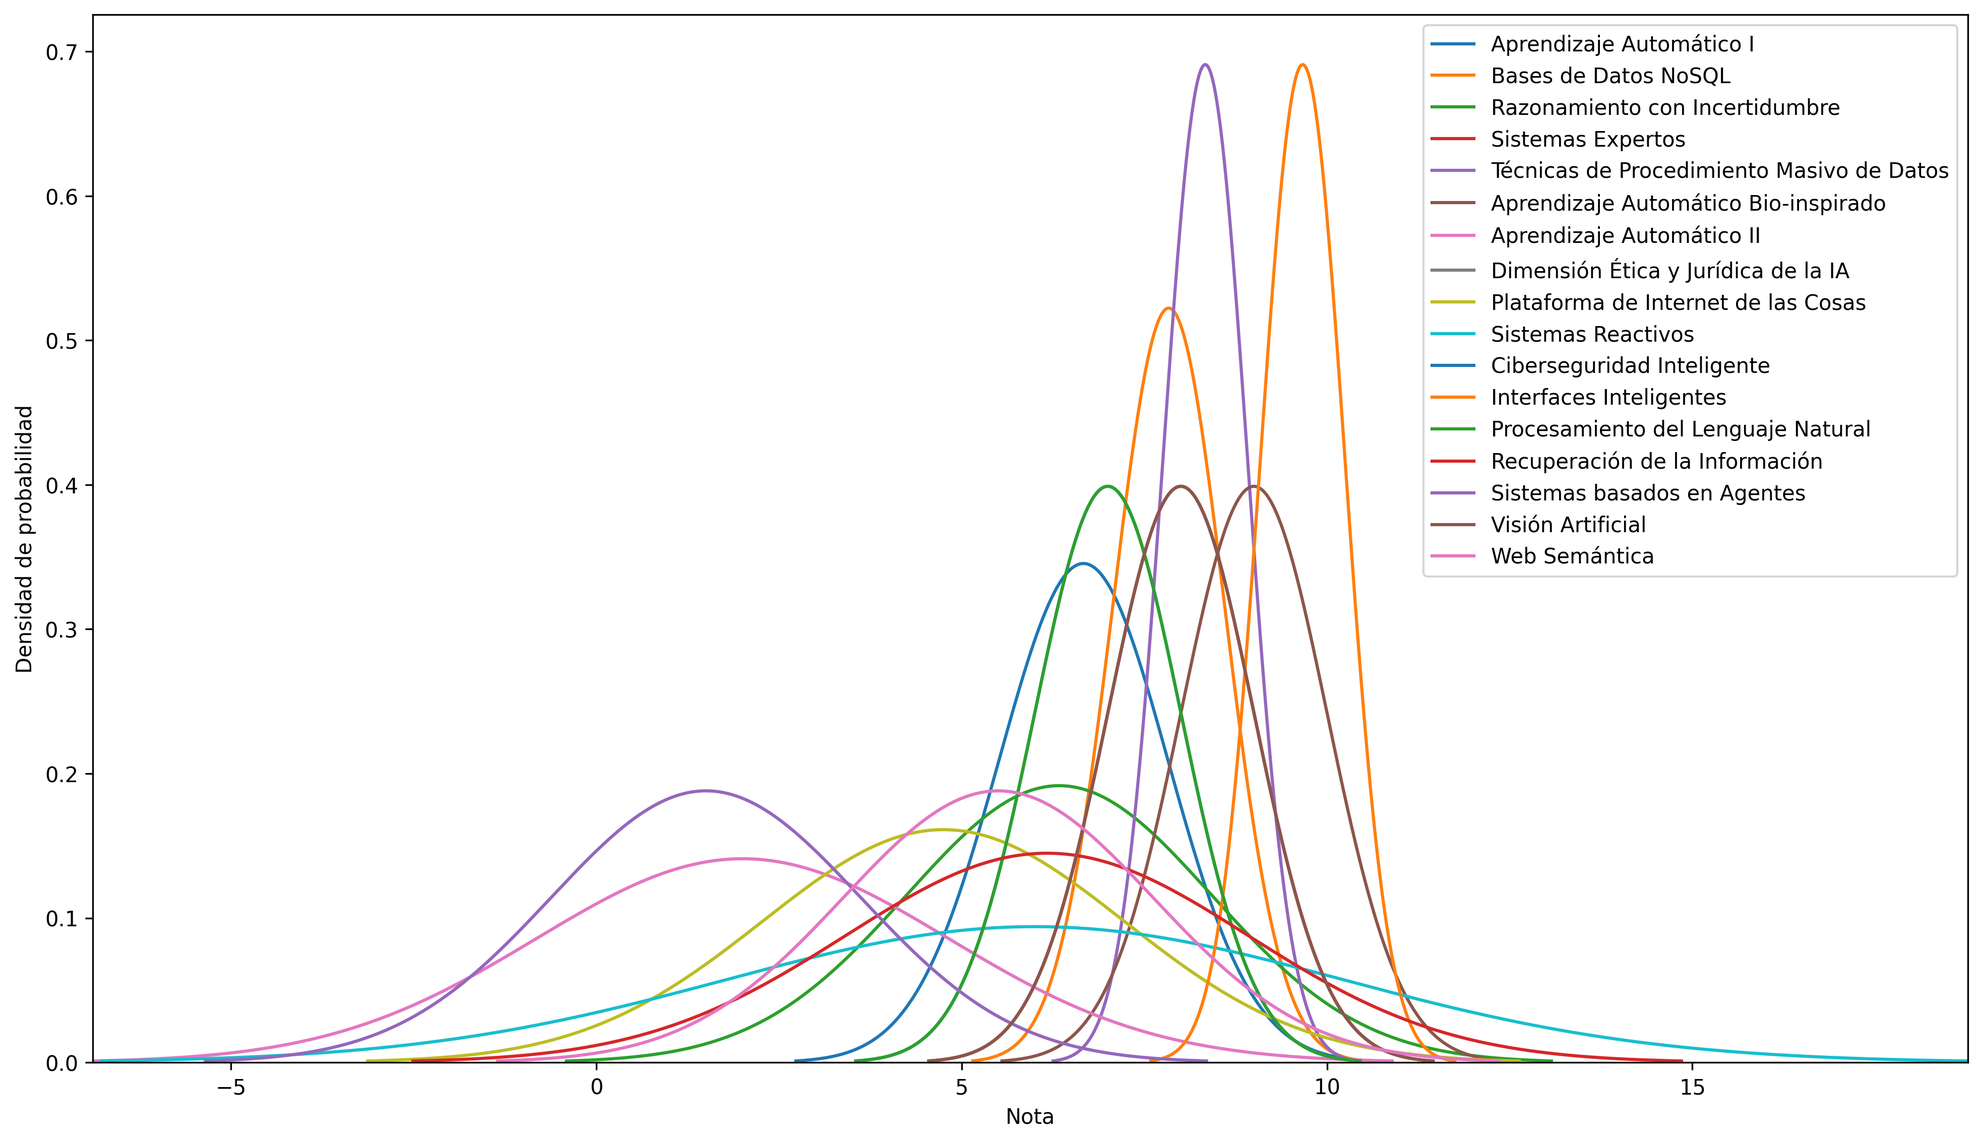
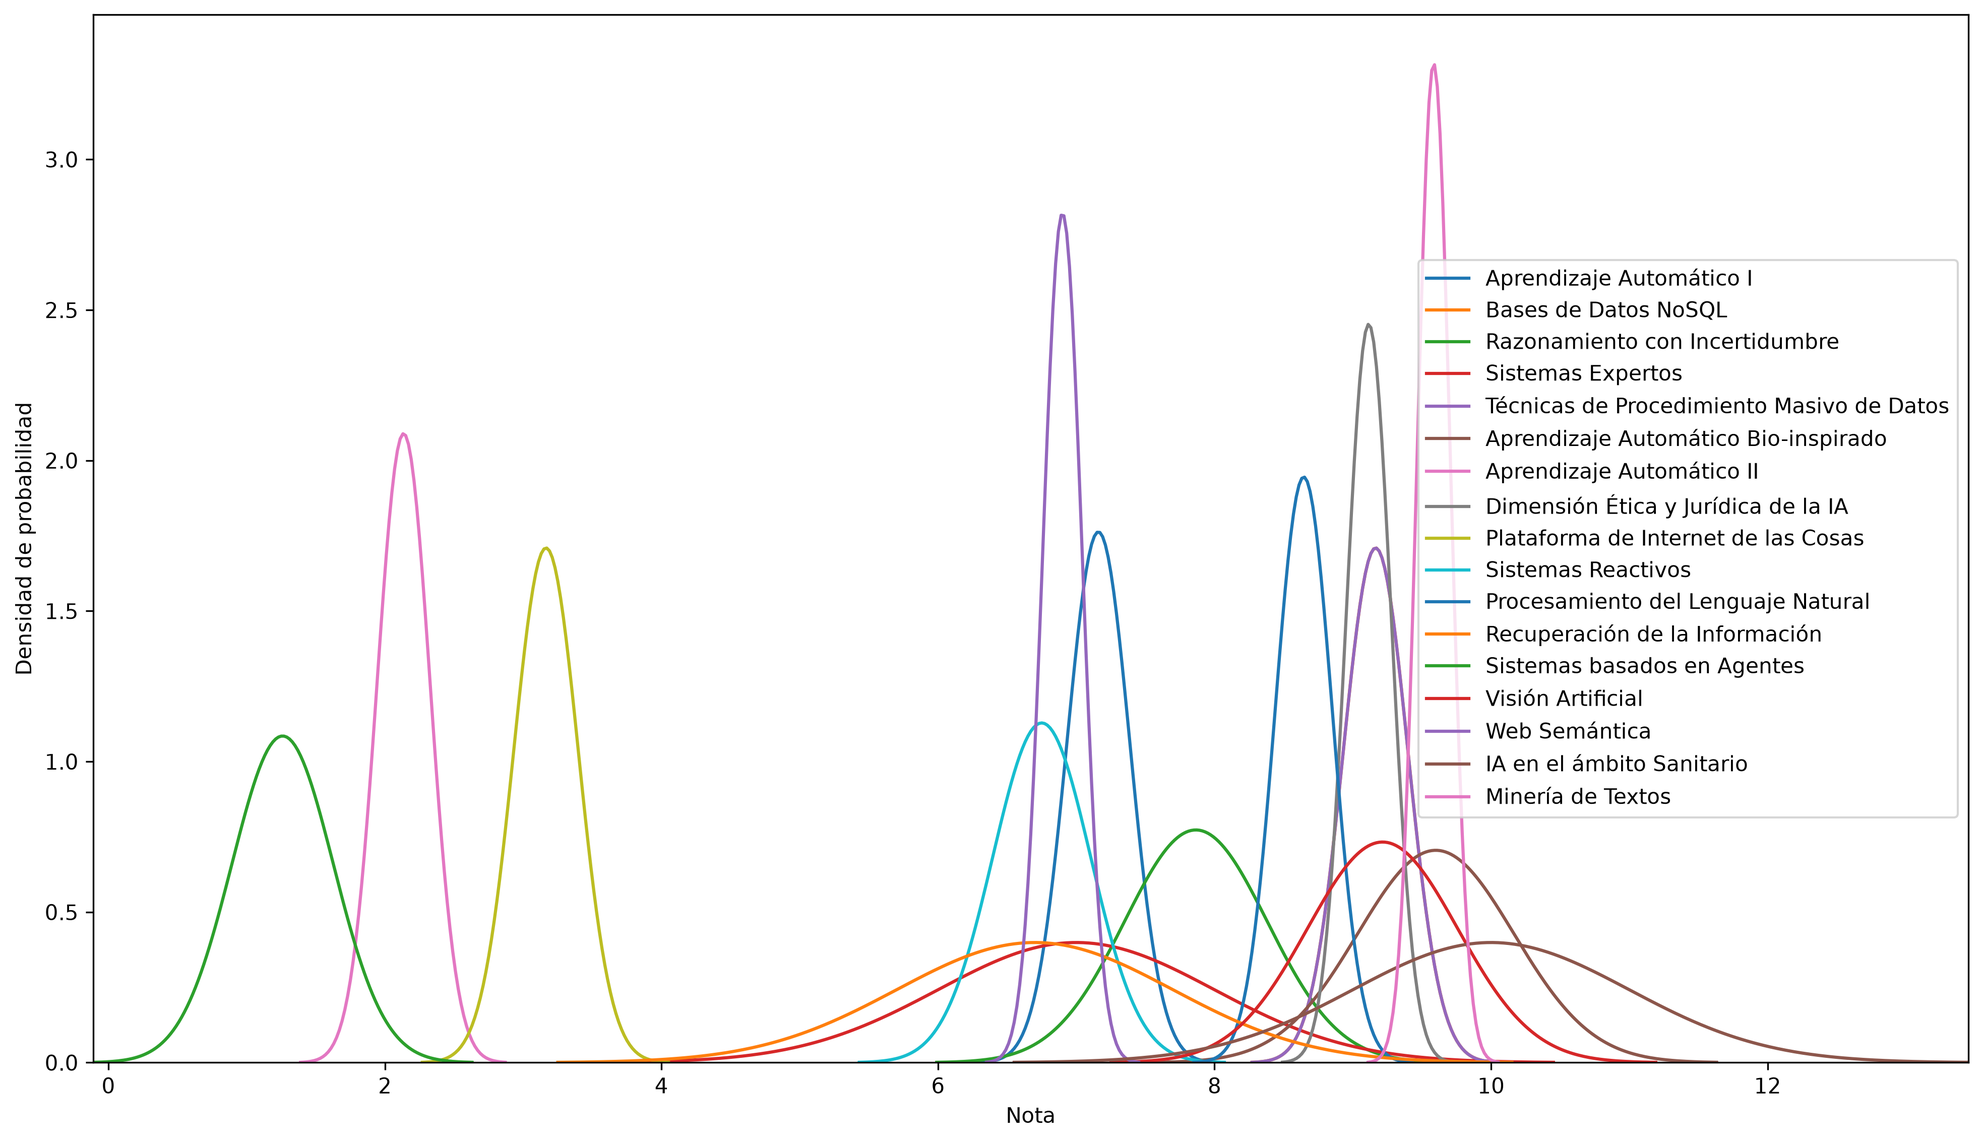
Executed main.py [GitHub Action]

diff --git a/docs/README2026.md b/docs/README2026.md
@@ -6,25 +6,29 @@ Este es un repositorio que calcula distintos métodos de votación y métricas p
 
 Estas son distintas métricas para todas las asignaturas, ordenadas por su media.
 
-| <img width="1000"><br><p align="center">Asignatura | <img width="1000"><br><p align="center">Media | <img width="1000"><br><p align="center">Desviación típica | <img width="1000"><br><p align="center">Mediana | <img width="1000"><br><p align="center">Moda | <img width="1000"><br><p align="center">Máximo | <img width="1000"><br><p align="center">Mínimo | <img width="1000"><br><p align="center">Número de alumnos |
-| :------------------------------------------------- | :-------------------------------------------: | :-------------------------------------------------------: | :---------------------------------------------: | :------------------------------------------: | :--------------------------------------------: | :--------------------------------------------: | --------------------------------------------------------: |
-| Interfaces Inteligentes                            |                     9.67                      |                           0.58                            |                       10                        |                      10                      |                       10                       |                       9                        |                                                         3 |
-| Aprendizaje Automático Bio-inspirado               |                       9                       |                            nan                            |                        9                        |                      9                       |                       9                        |                       9                        |                                                         1 |
-| Técnicas de Procedimiento Masivo de Datos          |                     8.33                      |                           0.58                            |                        8                        |                      8                       |                       9                        |                       8                        |                                                         3 |
-| Visión Artificial                                  |                       8                       |                            nan                            |                        8                        |                      8                       |                       8                        |                       8                        |                                                         1 |
-| Dimensión Ética y Jurídica de la IA                |                       8                       |                             0                             |                        8                        |                      8                       |                       8                        |                       8                        |                                                         2 |
-| Sistemas Expertos                                  |                       8                       |                             0                             |                        8                        |                      8                       |                       8                        |                       8                        |                                                         3 |
-| Bases de Datos NoSQL                               |                     7.83                      |                           0.76                            |                        8                        |                      7                       |                      8.5                       |                       7                        |                                                         3 |
-| Ciberseguridad Inteligente                         |                       7                       |                             0                             |                        7                        |                      7                       |                       7                        |                       7                        |                                                         2 |
-| Procesamiento del Lenguaje Natural                 |                       7                       |                             1                             |                        7                        |                      6                       |                       8                        |                       6                        |                                                         3 |
-| Aprendizaje Automático I                           |                     6.67                      |                           1.15                            |                        6                        |                      6                       |                       8                        |                       6                        |                                                         3 |
-| Razonamiento con Incertidumbre                     |                     6.33                      |                           2.08                            |                        7                        |                      4                       |                       8                        |                       4                        |                                                         3 |
-| Recuperación de la Información                     |                     6.17                      |                           2.75                            |                       7.5                       |                      3                       |                       8                        |                       3                        |                                                         3 |
-| Sistemas Reactivos                                 |                       6                       |                           4.24                            |                        6                        |                      3                       |                       9                        |                       3                        |                                                         2 |
-| Web Semántica                                      |                      5.5                      |                           2.12                            |                       5.5                       |                      4                       |                       7                        |                       4                        |                                                         2 |
-| Plataforma de Internet de las Cosas                |                     4.75                      |                           2.47                            |                      4.75                       |                      3                       |                      6.5                       |                       3                        |                                                         2 |
-| Aprendizaje Automático II                          |                       2                       |                           2.83                            |                        2                        |                      0                       |                       4                        |                       0                        |                                                         2 |
-| Sistemas basados en Agentes                        |                      1.5                      |                           2.12                            |                       1.5                       |                      0                       |                       3                        |                       0                        |                                                         2 |
+| <img width="1000"><br><p align="center">Asignatura  | <img width="1000"><br><p align="center">Media  | <img width="1000"><br><p align="center">Desviación típica  | <img width="1000"><br><p align="center">Mediana  | <img width="1000"><br><p align="center">Moda  | <img width="1000"><br><p align="center">Máximo  | <img width="1000"><br><p align="center">Mínimo  | <img width="1000"><br><p align="center">Número de alumnos |
+|:--|:--:|:--:|:--:|:--:|:--:|:--:|--:|
+| IA en el ámbito Sanitario  | 10  | 0  | 10  | 10  | 10  | 10  | 2 |
+| Aprendizaje Automático Bio-inspirado  | 9.6  | 0.57  | 9.6  | 9.2  | 10  | 9.2  | 2 |
+| Minería de Textos  | 9.59  | 0.12  | 9.59  | 9.5  | 9.67  | 9.5  | 2 |
+| Visión Artificial  | 9.22  | 0.54  | 9.22  | 8.83  | 9.6  | 8.83  | 2 |
+| Técnicas de Procedimiento Masivo de Datos  | 9.16  | 0.23  | 9.16  | 9  | 9.33  | 9  | 2 |
+| Bases de Datos NoSQL  | 9.16  | 0.23  | 9.16  | 9  | 9.33  | 9  | 2 |
+| Dimensión Ética y Jurídica de la IA  | 9.12  | 0.16  | 9.12  | 9  | 9.23  | 9  | 2 |
+| Procesamiento del Lenguaje Natural  | 8.64  | 0.21  | 8.64  | 8.5  | 8.79  | 8.5  | 2 |
+| Razonamiento con Incertidumbre  | 7.86  | 0.52  | 7.86  | 7.5  | 8.23  | 7.5  | 2 |
+| Aprendizaje Automático I  | 7.16  | 0.23  | 7.16  | 7  | 7.32  | 7  | 2 |
+| Sistemas Expertos  | 7  | 0  | 7  | 7  | 7  | 7  | 2 |
+| Web Semántica  | 6.9  | 0.14  | 6.9  | 6.8  | 7  | 6.8  | 2 |
+| Sistemas Reactivos  | 6.75  | 0.35  | 6.75  | 6.5  | 7  | 6.5  | 2 |
+| Recuperación de la Información  | 6.7  | 0  | 6.7  | 6.7  | 6.7  | 6.7  | 2 |
+| Plataforma de Internet de las Cosas  | 3.16  | 0.23  | 3.16  | 3  | 3.33  | 3  | 2 |
+| Aprendizaje Automático II  | 2.13  | 0.19  | 2.13  | 2  | 2.27  | 2  | 2 |
+| Sistemas basados en Agentes  | 1.26  | 0.37  | 1.26  | 1  | 1.52  | 1  | 2 |
+| Ciberseguridad Inteligente  | nan  | nan  | nan  | nan  | nan  | nan  | 0 |
+| Interfaces Inteligentes  | nan  | nan  | nan  | nan  | nan  | nan  | 0 |
+| IA en el ámbito Empresarial y Administrativo  | nan  | nan  | nan  | nan  | nan  | nan  | 0 |
+| Robótica basada en el Comportamiento  | nan  | nan  | nan  | nan  | nan  | nan  | 0 |
 
 ## Distribuciones de probabilidad
 
@@ -43,21 +47,25 @@ Estas son las distribuciones normales usando la media y desviación típica de c
 Para el método Schulze se necesita un ranking de cada votante para todas las opciones. Como en este caso tenemos una nota numérica, se pone que un votante prefiere una asignatura sobre otra si le ha dado una nota mayor. Esto se divide por el número de alumnos que han votado a las dos asignaturas para normalizar.
 
 | <img width="1000"><br><p align="center">Asignatura |
-| :------------------------------------------------: |
-|              Interfaces Inteligentes               |
-|        Aprendizaje Automático Bio-inspirado        |
-|                 Visión Artificial                  |
-|     Técnicas de Procedimiento Masivo de Datos      |
-|        Dimensión Ética y Jurídica de la IA         |
-|                 Sistemas Expertos                  |
-|                Bases de Datos NoSQL                |
-|             Ciberseguridad Inteligente             |
-|         Procesamiento del Lenguaje Natural         |
-|              Aprendizaje Automático I              |
-|           Razonamiento con Incertidumbre           |
-|           Recuperación de la Información           |
-|                 Sistemas Reactivos                 |
-|                   Web Semántica                    |
-|        Plataforma de Internet de las Cosas         |
-|             Aprendizaje Automático II              |
-|            Sistemas basados en Agentes             |
+|:--:|
+| IA en el ámbito Sanitario |
+| Aprendizaje Automático Bio-inspirado |
+| Minería de Textos |
+| Visión Artificial |
+| Técnicas de Procedimiento Masivo de Datos |
+| Bases de Datos NoSQL |
+| Dimensión Ética y Jurídica de la IA |
+| Procesamiento del Lenguaje Natural |
+| Razonamiento con Incertidumbre |
+| Aprendizaje Automático I |
+| Sistemas Expertos |
+| Web Semántica |
+| Sistemas Reactivos |
+| Recuperación de la Información |
+| Plataforma de Internet de las Cosas |
+| Aprendizaje Automático II |
+| Sistemas basados en Agentes |
+| Ciberseguridad Inteligente |
+| IA en el ámbito Empresarial y Administrativo |
+| Interfaces Inteligentes |
+| Robótica basada en el Comportamiento |

diff --git a/README.md b/README.md
@@ -9,22 +9,26 @@ Estas son distintas métricas para todas las asignaturas, ordenadas por su media
 | <img width="1000"><br><p align="center">Asignatura  | <img width="1000"><br><p align="center">Media  | <img width="1000"><br><p align="center">Desviación típica  | <img width="1000"><br><p align="center">Mediana  | <img width="1000"><br><p align="center">Moda  | <img width="1000"><br><p align="center">Máximo  | <img width="1000"><br><p align="center">Mínimo  | <img width="1000"><br><p align="center">Número de alumnos |
 |:--|:--:|:--:|:--:|:--:|:--:|:--:|--:|
 | Interfaces Inteligentes  | 9.67  | 0.58  | 10  | 10  | 10  | 9  | 3 |
-| Visión Artificial  | 8.27  | 0.92  | 8  | 8  | 9.9  | 7  | 7 |
-| Técnicas de Procedimiento Masivo de Datos  | 8.16  | 0.72  | 8  | 8  | 10  | 7  | 16 |
-| Bases de Datos NoSQL  | 7.99  | 0.92  | 8  | 8  | 10  | 6  | 17 |
-| Aprendizaje Automático Bio-inspirado  | 7.91  | 2  | 9  | 9  | 10  | 4  | 15 |
-| Dimensión Ética y Jurídica de la IA  | 7.81  | 1.26  | 8  | 8  | 10  | 5  | 15 |
+| Minería de Textos  | 9.29  | 0.66  | 9.5  | 8.3  | 10  | 8.3  | 5 |
+| Robótica basada en el Comportamiento  | 8.5  | nan  | 8.5  | 8.5  | 8.5  | 8.5  | 1 |
+| Visión Artificial  | 8.43  | 0.88  | 8  | 8  | 9.9  | 7  | 10 |
+| IA en el ámbito Sanitario  | 8.33  | 2.89  | 10  | 10  | 10  | 5  | 3 |
+| Técnicas de Procedimiento Masivo de Datos  | 8.27  | 0.75  | 8  | 8  | 10  | 7  | 18 |
+| Aprendizaje Automático Bio-inspirado  | 8.11  | 1.95  | 9  | 10  | 10  | 4  | 17 |
+| Bases de Datos NoSQL  | 8.11  | 0.94  | 8  | 8  | 10  | 6  | 19 |
+| Dimensión Ética y Jurídica de la IA  | 7.86  | 1.3  | 8  | 8  | 10  | 5  | 18 |
 | Ciberseguridad Inteligente  | 7.73  | 0.97  | 7  | 7  | 9.1  | 7  | 7 |
-| Sistemas Expertos  | 7.61  | 1.16  | 8  | 8  | 9  | 5  | 17 |
-| Procesamiento del Lenguaje Natural  | 7.6  | 1.35  | 7  | 7  | 10  | 6  | 10 |
-| Aprendizaje Automático I  | 7.3  | 1.19  | 7.25  | 8  | 9.6  | 5  | 18 |
-| Sistemas Reactivos  | 6.99  | 2.12  | 7.15  | 6  | 10  | 3  | 16 |
-| Recuperación de la Información  | 6.23  | 1.86  | 7  | 7  | 8  | 3  | 11 |
-| Razonamiento con Incertidumbre  | 5.54  | 2.53  | 6.1  | 7  | 9  | 0  | 18 |
-| Web Semántica  | 5.33  | 2.45  | 6  | 7  | 8  | 1  | 9 |
-| Plataforma de Internet de las Cosas  | 2.73  | 2.06  | 3  | 3  | 6.5  | 0  | 15 |
-| Aprendizaje Automático II  | 2.19  | 2.42  | 2  | 0  | 9  | 0  | 17 |
-| Sistemas basados en Agentes  | 1.2  | 1.4  | 1  | 0  | 4  | 0  | 10 |
+| Procesamiento del Lenguaje Natural  | 7.71  | 1.25  | 7  | 7  | 10  | 6  | 13 |
+| Sistemas Expertos  | 7.55  | 1.11  | 8  | 8  | 9  | 5  | 19 |
+| Aprendizaje Automático I  | 7.28  | 1.13  | 7.16  | 7  | 9.6  | 5  | 20 |
+| Sistemas Reactivos  | 6.96  | 1.99  | 7  | 6  | 10  | 3  | 18 |
+| Recuperación de la Información  | 6.21  | 1.68  | 6.85  | 7  | 8  | 3  | 14 |
+| Razonamiento con Incertidumbre  | 5.77  | 2.5  | 6.6  | 7  | 9  | 0  | 20 |
+| Web Semántica  | 5.57  | 2.18  | 6.4  | 7  | 8  | 1  | 12 |
+| Plataforma de Internet de las Cosas  | 2.78  | 1.93  | 3  | 3  | 6.5  | 0  | 17 |
+| Aprendizaje Automático II  | 2.19  | 2.28  | 2  | 0  | 9  | 0  | 19 |
+| Sistemas basados en Agentes  | 1.12  | 1.26  | 1  | 0  | 4  | 0  | 13 |
+| IA en el ámbito Empresarial y Administrativo  | nan  | nan  | nan  | nan  | nan  | nan  | 0 |
 
 ## Distribuciones de probabilidad
 
@@ -45,23 +49,29 @@ Para el método Schulze se necesita un ranking de cada votante para todas las op
 | <img width="1000"><br><p align="center">Asignatura |
 |:--:|
 | Interfaces Inteligentes |
+| IA en el ámbito Sanitario |
 | Aprendizaje Automático Bio-inspirado |
+| Robótica basada en el Comportamiento |
+| Minería de Textos |
 | Técnicas de Procedimiento Masivo de Datos |
 | Bases de Datos NoSQL |
 | Visión Artificial |
+| Ciberseguridad Inteligente |
 | Dimensión Ética y Jurídica de la IA |
 | Sistemas Expertos |
-| Ciberseguridad Inteligente |
 | Procesamiento del Lenguaje Natural |
 | Aprendizaje Automático I |
 | Sistemas Reactivos |
-| Recuperación de la Información |
 | Razonamiento con Incertidumbre |
+| Recuperación de la Información |
 | Web Semántica |
 | Plataforma de Internet de las Cosas |
 | Aprendizaje Automático II |
 | Sistemas basados en Agentes |
+| IA en el ámbito Empresarial y Administrativo |
 
 ## Informes por año
+
+- ### [2026](./docs/README2026.md)
 
 - ### [2025](./docs/README2025.md)

diff --git a/docs/README2025.md b/docs/README2025.md
@@ -9,22 +9,26 @@ Estas son distintas métricas para todas las asignaturas, ordenadas por su media
 | <img width="1000"><br><p align="center">Asignatura  | <img width="1000"><br><p align="center">Media  | <img width="1000"><br><p align="center">Desviación típica  | <img width="1000"><br><p align="center">Mediana  | <img width="1000"><br><p align="center">Moda  | <img width="1000"><br><p align="center">Máximo  | <img width="1000"><br><p align="center">Mínimo  | <img width="1000"><br><p align="center">Número de alumnos |
 |:--|:--:|:--:|:--:|:--:|:--:|:--:|--:|
 | Interfaces Inteligentes  | 9.67  | 0.58  | 10  | 10  | 10  | 9  | 3 |
-| Visión Artificial  | 8.27  | 0.92  | 8  | 8  | 9.9  | 7  | 7 |
+| Minería de Textos  | 9.1  | 0.85  | 9  | 8.3  | 10  | 8.3  | 3 |
+| Robótica basada en el Comportamiento  | 8.5  | nan  | 8.5  | 8.5  | 8.5  | 8.5  | 1 |
+| Visión Artificial  | 8.24  | 0.86  | 8  | 8  | 9.9  | 7  | 8 |
 | Técnicas de Procedimiento Masivo de Datos  | 8.16  | 0.72  | 8  | 8  | 10  | 7  | 16 |
 | Bases de Datos NoSQL  | 7.99  | 0.92  | 8  | 8  | 10  | 6  | 17 |
 | Aprendizaje Automático Bio-inspirado  | 7.91  | 2  | 9  | 9  | 10  | 4  | 15 |
-| Dimensión Ética y Jurídica de la IA  | 7.81  | 1.26  | 8  | 8  | 10  | 5  | 15 |
 | Ciberseguridad Inteligente  | 7.73  | 0.97  | 7  | 7  | 9.1  | 7  | 7 |
+| Dimensión Ética y Jurídica de la IA  | 7.7  | 1.3  | 8  | 8  | 10  | 5  | 16 |
 | Sistemas Expertos  | 7.61  | 1.16  | 8  | 8  | 9  | 5  | 17 |
-| Procesamiento del Lenguaje Natural  | 7.6  | 1.35  | 7  | 7  | 10  | 6  | 10 |
+| Procesamiento del Lenguaje Natural  | 7.55  | 1.29  | 7  | 7  | 10  | 6  | 11 |
 | Aprendizaje Automático I  | 7.3  | 1.19  | 7.25  | 8  | 9.6  | 5  | 18 |
 | Sistemas Reactivos  | 6.99  | 2.12  | 7.15  | 6  | 10  | 3  | 16 |
-| Recuperación de la Información  | 6.23  | 1.86  | 7  | 7  | 8  | 3  | 11 |
+| Recuperación de la Información  | 6.12  | 1.81  | 7  | 7  | 8  | 3  | 12 |
 | Razonamiento con Incertidumbre  | 5.54  | 2.53  | 6.1  | 7  | 9  | 0  | 18 |
-| Web Semántica  | 5.33  | 2.45  | 6  | 7  | 8  | 1  | 9 |
+| Web Semántica  | 5.3  | 2.31  | 6  | 7  | 8  | 1  | 10 |
+| IA en el ámbito Sanitario  | 5  | nan  | 5  | 5  | 5  | 5  | 1 |
 | Plataforma de Internet de las Cosas  | 2.73  | 2.06  | 3  | 3  | 6.5  | 0  | 15 |
 | Aprendizaje Automático II  | 2.19  | 2.42  | 2  | 0  | 9  | 0  | 17 |
-| Sistemas basados en Agentes  | 1.2  | 1.4  | 1  | 0  | 4  | 0  | 10 |
+| Sistemas basados en Agentes  | 1.09  | 1.38  | 1  | 0  | 4  | 0  | 11 |
+| IA en el ámbito Empresarial y Administrativo  | nan  | nan  | nan  | nan  | nan  | nan  | 0 |
 
 ## Distribuciones de probabilidad
 
@@ -46,18 +50,22 @@ Para el método Schulze se necesita un ranking de cada votante para todas las op
 |:--:|
 | Interfaces Inteligentes |
 | Aprendizaje Automático Bio-inspirado |
+| Robótica basada en el Comportamiento |
 | Técnicas de Procedimiento Masivo de Datos |
-| Bases de Datos NoSQL |
 | Visión Artificial |
+| Ciberseguridad Inteligente |
+| Minería de Textos |
+| Bases de Datos NoSQL |
 | Dimensión Ética y Jurídica de la IA |
 | Sistemas Expertos |
-| Ciberseguridad Inteligente |
-| Procesamiento del Lenguaje Natural |
 | Aprendizaje Automático I |
+| Procesamiento del Lenguaje Natural |
 | Sistemas Reactivos |
+| IA en el ámbito Sanitario |
 | Recuperación de la Información |
 | Razonamiento con Incertidumbre |
 | Web Semántica |
 | Plataforma de Internet de las Cosas |
 | Aprendizaje Automático II |
 | Sistemas basados en Agentes |
+| IA en el ámbito Empresarial y Administrativo |
